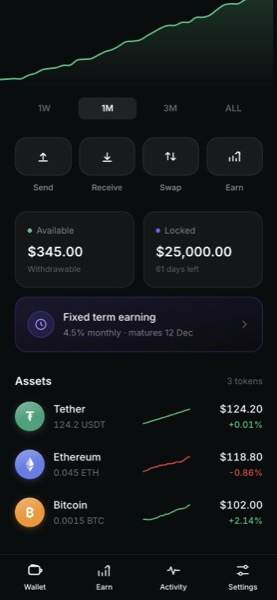
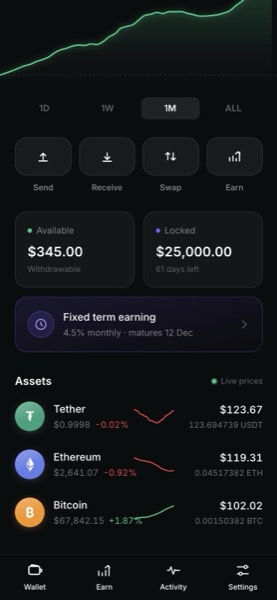
Make the wallet read as real rather than mocked
Holdings carried at full precision and priced to the cent, since round
amounts and round prices are the quickest tell. Spot prices now tick on
an interval and mean revert toward a reference, so the list moves like
a feed while the balance still sits at 345.

Asset rows restructured to the shape wallets actually use: unit price
and 24h change on the left, position value and holding on the right.
Sparklines are generated from the 24h change so their direction always
agrees with the percentage.

Header replaced with a tappable account chip showing the truncated
address, and transactions now read Confirmed rather than Successful.

diff --git a/components/Wallet.tsx b/components/Wallet.tsx
@@ -1,7 +1,7 @@
 import React, { useState } from 'react';
 import { Asset, EarnPosition } from '../types';
-import { PORTFOLIO_SERIES } from '../data';
-import { usdParts, usd, pct, crypto, daysBetween, parseISO, startOfToday } from '../utils';
+import { PORTFOLIO_SERIES, WALLET_ADDRESS } from '../data';
+import { usdParts, usd, pct, crypto, daysBetween, parseISO, startOfToday, truncate } from '../utils';
 import { AreaChart, Sparkline } from './Charts';
 import { CoinIcon, Logo, useCountUp } from './Ui';
 
@@ -21,6 +21,13 @@ const Wallet: React.FC<Props> = ({ assets, earn, spotTotal, onSend, onReceive, o
   const [range, setRange] = useState<(typeof RANGES)[number]>('1M');
   const [hidden, setHidden] = useState(false);
   const [scrub, setScrub] = useState<number | null>(null);
+  const [copied, setCopied] = useState(false);
+
+  const copyAddress = () => {
+    navigator.clipboard?.writeText(WALLET_ADDRESS).catch(() => {});
+    setCopied(true);
+    setTimeout(() => setCopied(false), 1500);
+  };
 
   const total = spotTotal + earn.principal;
   const animated = useCountUp(total);
@@ -52,10 +59,16 @@ const Wallet: React.FC<Props> = ({ assets, earn, spotTotal, onSend, onReceive, o
     <div className="pb-6">
       {/* Top bar */}
       <header className="h-14 px-5 flex items-center justify-between">
-        <div className="flex items-center gap-2.5">
-          <Logo size={26} />
-          <span className="text-[15px] font-semibold text-white tracking-tight">OPR</span>
-        </div>
+        <button
+          onClick={copyAddress}
+          className="flex items-center gap-2 bg-white/[0.05] border border-white/[0.08] rounded-full pl-1.5 pr-3 py-1.5 active:bg-white/[0.09] transition-colors"
+        >
+          <Logo size={20} />
+          <span className="text-[13px] font-medium text-white">Account 1</span>
+          <span className="text-[12px] text-white/35 font-mono">
+            {copied ? 'Copied' : truncate(WALLET_ADDRESS, 6, 4)}
+          </span>
+        </button>
         <button
           onClick={() => setHidden((h) => !h)}
           className="w-9 h-9 rounded-full bg-white/[0.06] border border-white/10 flex items-center justify-center text-white/60 active:scale-95 transition-transform"
@@ -222,7 +235,13 @@ const Wallet: React.FC<Props> = ({ assets, earn, spotTotal, onSend, onReceive, o
       <section className="mt-7">
         <div className="px-5 flex items-center justify-between mb-1">
           <h2 className="text-[15px] font-semibold text-white">Assets</h2>
-          <span className="text-[12px] text-white/35 tabular-nums">{assets.length} tokens</span>
+          <span className="flex items-center gap-1.5 text-[11px] text-white/35">
+            <span className="relative flex w-1.5 h-1.5">
+              <span className="absolute inline-flex w-1.5 h-1.5 rounded-full bg-[#16C784] opacity-70 animate-ping" />
+              <span className="relative inline-flex w-1.5 h-1.5 rounded-full bg-[#16C784]" />
+            </span>
+            Live prices
+          </span>
         </div>
         <div className="px-2">
           {assets.map((a) => {
@@ -237,21 +256,22 @@ const Wallet: React.FC<Props> = ({ assets, earn, spotTotal, onSend, onReceive, o
                 <CoinIcon symbol={a.symbol} color={a.color} />
                 <div className="min-w-0 flex-1 text-left">
                   <p className="text-[14px] font-medium text-white truncate">{a.name}</p>
-                  <p className="text-[12px] text-white/40 tabular-nums mt-0.5">
-                    {crypto(a.amount, a.symbol)}
+                  <p className="text-[12px] tabular-nums mt-0.5 flex items-center gap-1.5">
+                    <span className="text-white/40">
+                      ${usd(a.price, a.price < 10 ? 4 : 2)}
+                    </span>
+                    <span className={positive ? 'text-[#16C784]' : 'text-[#EA3943]'}>
+                      {pct(a.change24h)}
+                    </span>
                   </p>
                 </div>
                 <Sparkline values={a.spark} positive={positive} />
-                <div className="text-right shrink-0 w-[86px]">
+                <div className="text-right shrink-0 w-[108px]">
                   <p className="text-[14px] font-medium text-white tabular-nums">
                     {hidden ? '••••' : `$${usd(value)}`}
                   </p>
-                  <p
-                    className={`text-[12px] font-medium tabular-nums mt-0.5 ${
-                      positive ? 'text-[#16C784]' : 'text-[#EA3943]'
-                    }`}
-                  >
-                    {pct(a.change24h)}
+                  <p className="text-[11px] text-white/40 tabular-nums mt-0.5 whitespace-nowrap">
+                    {hidden ? '••••' : crypto(a.amount, a.symbol)}
                   </p>
                 </div>
               </button>

diff --git a/data.ts b/data.ts
@@ -9,6 +9,27 @@ const seeded = (seed: number) => {
   };
 };
 
+// A 24h sparkline that starts where the 24h change implies and ends at the
+// current price, so the line direction always agrees with the percentage.
+const spark = (seed: number, price: number, change24h: number, points = 24): number[] => {
+  const rnd = seeded(seed);
+  const start = price / (1 + change24h / 100);
+  const noise: number[] = [];
+  let momentum = 0;
+  let level = 0;
+  for (let i = 0; i < points; i++) {
+    momentum = momentum * 0.75 + (rnd() - 0.5) * 0.6;
+    level = level * 0.9 + momentum;
+    noise.push(level);
+  }
+  const peak = Math.max(...noise.map(Math.abs)) || 1;
+  return noise.map((n, i) => {
+    const p = i / (points - 1);
+    const base = start + (price - start) * p;
+    return base + (n / peak) * price * 0.004 * Math.sin(Math.PI * p);
+  });
+};
+
 const walk = (seed: number, points: number, end: number, volatility: number): number[] => {
   const rnd = seeded(seed);
   const out: number[] = [];
@@ -29,11 +50,11 @@ export const ASSETS: Asset[] = [
     symbol: 'USDT',
     name: 'Tether',
     network: 'Ethereum',
-    amount: 124.2,
-    price: 1.0,
-    change24h: 0.01,
+    amount: 123.694739,
+    price: 0.9998,
+    change24h: -0.02,
     color: '#26A17B',
-    spark: walk(11, 24, 1.0, 0.004),
+    spark: spark(11, 0.9998, -0.02),
     address: '0x7A3f91C2b4E8d5A6F1c09B3e7D2a845C6E0f12Ab',
   },
   {
@@ -41,11 +62,11 @@ export const ASSETS: Asset[] = [
     symbol: 'ETH',
     name: 'Ethereum',
     network: 'Ethereum',
-    amount: 0.045,
-    price: 2640,
-    change24h: -0.86,
+    amount: 0.04517382,
+    price: 2641.07,
+    change24h: -0.92,
     color: '#627EEA',
-    spark: walk(23, 24, 2640, 0.02),
+    spark: spark(23, 2641.07, -0.92),
     address: '0x7A3f91C2b4E8d5A6F1c09B3e7D2a845C6E0f12Ab',
   },
   {
@@ -53,11 +74,11 @@ export const ASSETS: Asset[] = [
     symbol: 'BTC',
     name: 'Bitcoin',
     network: 'Bitcoin',
-    amount: 0.0015,
-    price: 68000,
-    change24h: 2.14,
+    amount: 0.00150382,
+    price: 67842.15,
+    change24h: 1.87,
     color: '#F7931A',
-    spark: walk(37, 24, 68000, 0.018),
+    spark: spark(37, 67842.15, 1.87),
     address: 'bc1q9h6yzs4k2v8xq3mr7t0plw5djn2eac6uf0g3vz',
   },
 ];
@@ -79,8 +100,8 @@ export const TRANSACTIONS: Tx[] = [
     title: 'Received BTC',
     subtitle: 'From bc1q4t...9xkm',
     symbol: 'BTC',
-    amount: 0.0015,
-    usd: 102,
+    amount: 0.00150382,
+    usd: 102.02,
     date: '2026-10-09T14:22:00',
     status: 'confirmed',
   },
@@ -90,8 +111,8 @@ export const TRANSACTIONS: Tx[] = [
     title: 'Received ETH',
     subtitle: 'From 0x3Fa2...71Bd',
     symbol: 'ETH',
-    amount: 0.045,
-    usd: 118.8,
+    amount: 0.04517382,
+    usd: 119.31,
     date: '2026-10-02T09:41:00',
     status: 'confirmed',
   },
@@ -101,8 +122,8 @@ export const TRANSACTIONS: Tx[] = [
     title: 'Received USDT',
     subtitle: 'From 0x8C17...04Ee',
     symbol: 'USDT',
-    amount: 124.2,
-    usd: 124.2,
+    amount: 123.694739,
+    usd: 123.67,
     date: '2026-09-20T18:05:00',
     status: 'confirmed',
   },

diff --git a/App.tsx b/App.tsx
@@ -21,10 +21,35 @@ const App: React.FC = () => {
   const [screen, setScreen] = useState<Screen>('wallet');
   const [modal, setModal] = useState<null | 'send' | 'receive'>(null);
 
+  const [assets, setAssets] = useState<Asset[]>(ASSETS);
+
   const spotTotal = useMemo(
-    () => ASSETS.reduce((sum, a) => sum + a.amount * a.price, 0),
-    [],
+    () => assets.reduce((sum, a) => sum + a.amount * a.price, 0),
+    [assets],
   );
+
+  // Prices drift and pull back toward their reference, so the list ticks the way
+  // a live feed does without wandering away from the reference portfolio.
+  useEffect(() => {
+    const base = new Map(ASSETS.map((a) => [a.id, { price: a.price, change: a.change24h }]));
+    const id = setInterval(() => {
+      setAssets((prev) =>
+        prev.map((a) => {
+          const ref = base.get(a.id);
+          if (!ref) return a;
+          const vol = a.symbol === 'USDT' ? 0.00004 : 0.00045;
+          const nudged = a.price * (1 + (Math.random() - 0.5) * 2 * vol);
+          const price = nudged + (ref.price - nudged) * 0.3;
+          return {
+            ...a,
+            price,
+            change24h: ref.change + ((price - ref.price) / ref.price) * 100,
+          };
+        }),
+      );
+    }, 5000);
+    return () => clearInterval(id);
+  }, []);
 
   // Refresh the unlock stamp on interaction, and re-lock after inactivity.
   useEffect(() => {
@@ -67,7 +92,7 @@ const App: React.FC = () => {
       default:
         return (
           <Wallet
-            assets={ASSETS}
+            assets={assets}
             earn={EARN}
             spotTotal={spotTotal}
             onSend={() => setModal('send')}
@@ -91,9 +116,9 @@ const App: React.FC = () => {
       </div>
 
       {modal === 'send' && (
-        <Send assets={ASSETS} spotTotal={spotTotal} onClose={() => setModal(null)} />
+        <Send assets={assets} spotTotal={spotTotal} onClose={() => setModal(null)} />
       )}
-      {modal === 'receive' && <Receive assets={ASSETS} onClose={() => setModal(null)} />}
+      {modal === 'receive' && <Receive assets={assets} onClose={() => setModal(null)} />}
     </div>
   );
 };

diff --git a/utils.ts b/utils.ts
@@ -13,7 +13,7 @@ export const usdParts = (v: number): { whole: string; cents: string } => {
 };
 
 export const crypto = (amount: number, symbol: string): string => {
-  const decimals = amount >= 1000 ? 2 : amount >= 1 ? 4 : 6;
+  const decimals = amount >= 1000 ? 2 : amount >= 1 ? 6 : 8;
   return `${amount.toLocaleString('en-US', {
     minimumFractionDigits: 0,
     maximumFractionDigits: decimals,

diff --git a/components/Charts.tsx b/components/Charts.tsx
@@ -186,8 +186,8 @@ export const Sparkline: React.FC<{ values: number[]; positive: boolean }> = ({
   values,
   positive,
 }) => {
-  const w = 64;
-  const h = 26;
+  const w = 54;
+  const h = 24;
   const d = useMemo(() => smoothPath(toPoints(values, w, h, 3)), [values]);
   return (
     <svg viewBox={`0 0 ${w} ${h}`} width={w} height={h} className="shrink-0">

diff --git a/README.md b/README.md
@@ -48,6 +48,12 @@ finger while the header reports the value, change and date at that point, then s
 back on release. A dashed rule marks where the selected period opened, so a gain or
 loss reads without needing axis labels.
 
+**Live prices.** Spot prices tick on an interval and pull back toward a reference,
+so the list moves the way a real feed does without the portfolio wandering off.
+Holdings are carried at full precision (0.00150382 BTC, 123.694739 USDT) and priced
+to the cent, because round holdings and round prices are the fastest way to make a
+wallet look synthetic.
+
 **Plausible data.** The series is generated from a mean-reverting random walk with
 momentum, which produces runs, pullbacks and consolidations rather than a straight
 ramp. Movement is deliberately modest, because 25,000 of the 25,345 sits in a fixed
